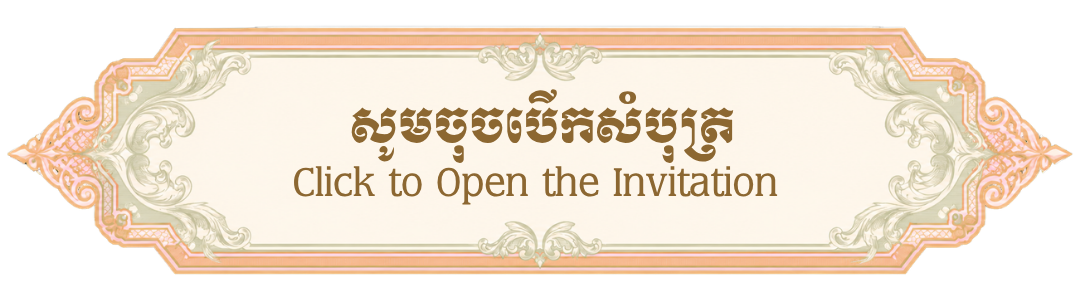
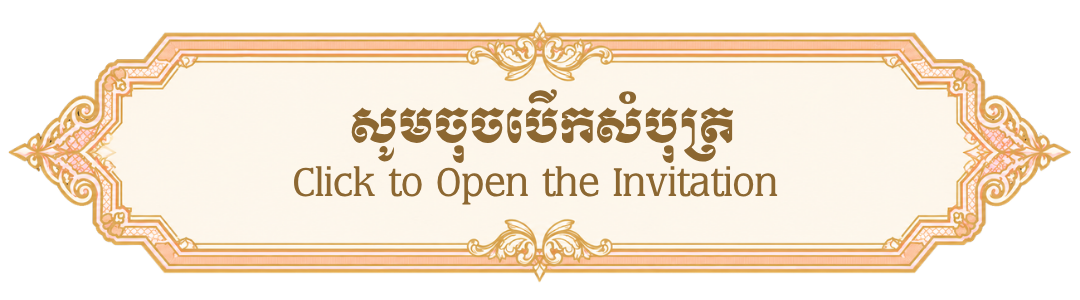
Update wedding invitation

Changed region(s): [[0.0, 0.09, 1.0, 0.93]]

diff --git a/app/globals.css b/app/globals.css
@@ -622,26 +622,26 @@ body {
 
 .english-parents-grid {
   display: grid;
+  grid-template-columns: 1fr 1fr;
+  column-gap: 16px;
 
-  grid-template-columns:
-    1fr 1fr;
+  width: 100%;
+  max-width: 650px;
+  margin: 22px auto 28px;
 
-  gap: 4px;
+  font-family: "Cormorant Garamond", serif;
+  font-size: clamp(14px, 3.5vw, 20px);
+  font-weight: 500;
+  line-height: 1.45;
+  letter-spacing: 0.15px;
 
   color: #8c6731;
-
-  font-size:
-    clamp(10px, 2.7vw, 16px);
-
-  line-height: 1.25;
-
-  margin-bottom: 16px;
-
   text-transform: uppercase;
+  text-align: center;
+}
 
-  font-weight: 700;
-
-  letter-spacing: 0.2px;
+.english-parents-grid > div {
+  min-width: 0;
 }
 
 .english-parents-grid > div:first-child {
@@ -6225,5 +6225,16 @@ body {
 
   .wedding-gift-qr-link {
     margin: 20px auto 16px;
+  }
+}
+
+@media (max-width: 600px) {
+  .english-parents-grid {
+    column-gap: 10px;
+    font-size: clamp(13px, 3.6vw, 17px);
+    line-height: 1.5;
+    letter-spacing: 0;
+    margin-top: 20px;
+    margin-bottom: 30px;
   }
 }

diff --git a/app/page.tsx b/app/page.tsx
@@ -3145,79 +3145,16 @@ useEffect(() => {
 
 
               <div className="english-parents-grid">
+  <div>
+    <div>MR. SOEUN SOVANNA</div>
+    <div>MRS. LAM SOKCHENG</div>
+  </div>
 
-
-
-                <p>
-
-
-
-                  Mr. SOEUN SOVANNA
-
-
-
-                  <br />
-
-
-
-                  Mrs. LAM SOKCHENG
-
-
-
-                </p>
-
-
-
-
-
-
-
-                <p>
-
-
-
-                  <span>
-
-
-
-                    Mr. CHEA VIRAK
-
-
-
-                  </span>
-
-
-
-
-
-
-
-                  <br />
-
-
-
-
-
-
-
-                  <span className="nob-nilin">
-
-
-
-                    Mrs. NOB NILIN
-
-
-
-                  </span>
-
-
-
-                </p>
-
-
-
-              </div>
-
+  <div>
+    <div>MR. CHEA VIRAK</div>
+    <div>MRS. NOB NILIN</div>
+  </div>
+</div>
 
 
 
